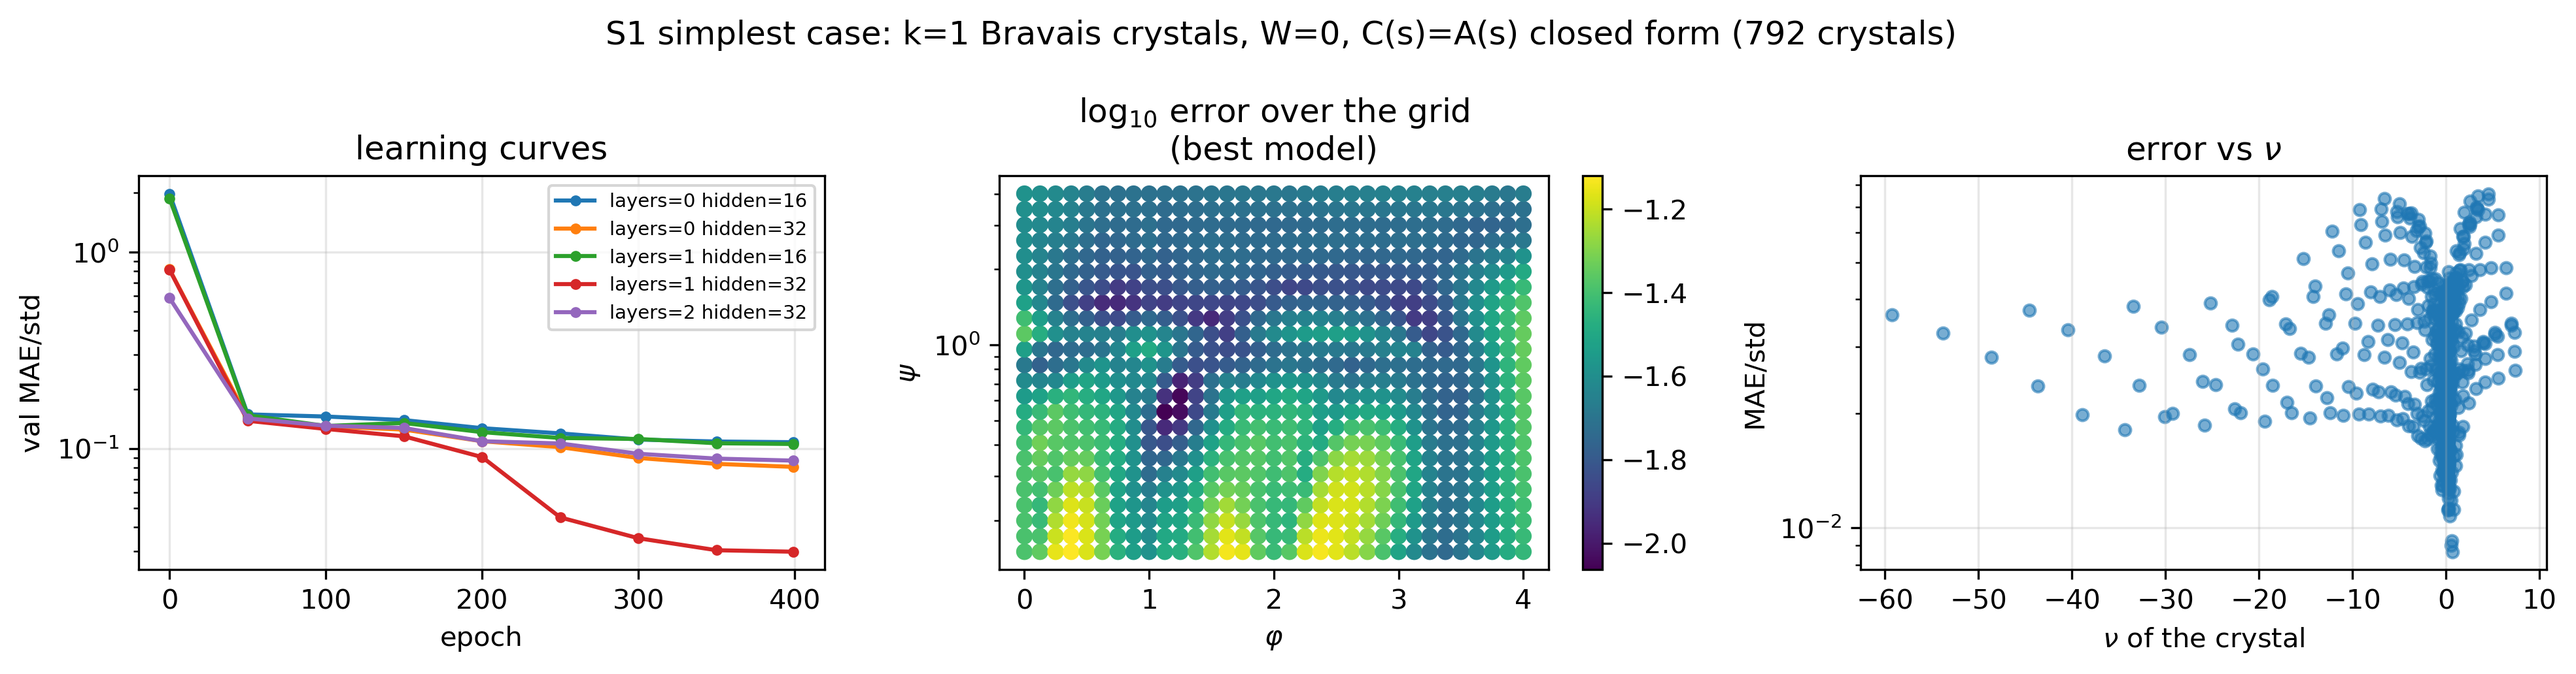
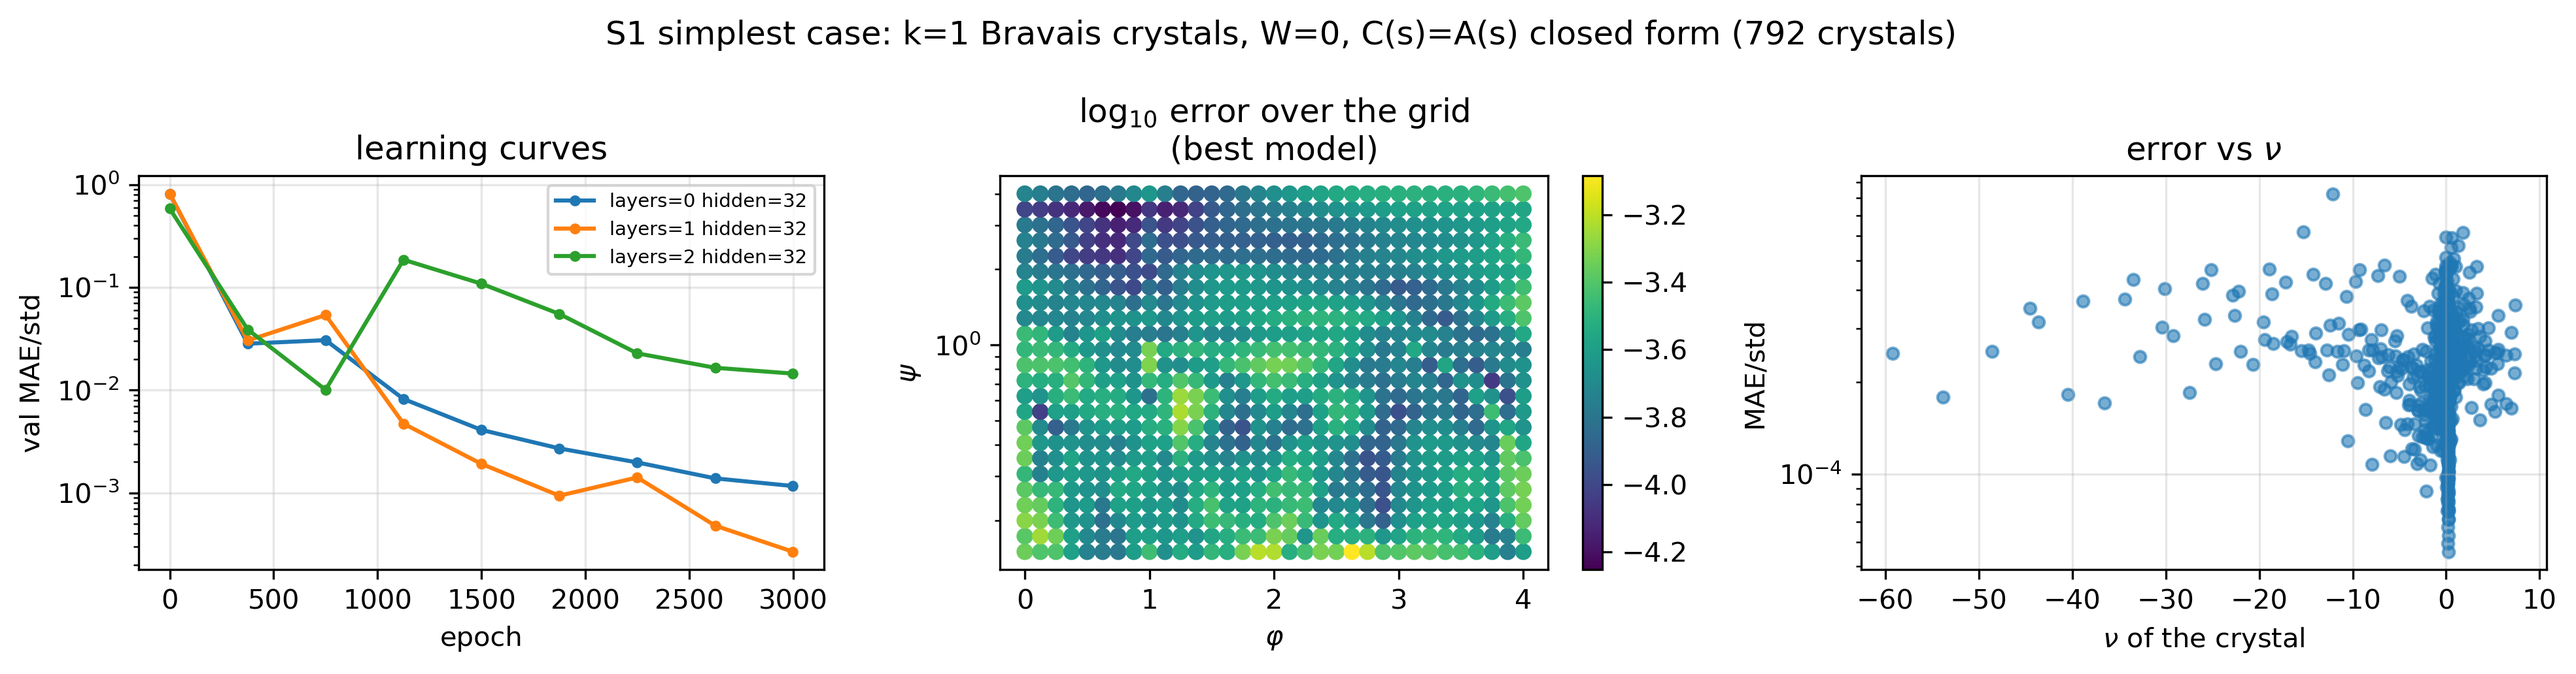
S1 simplest case PASSES: 0 layers, no message passing, learns C(s)=A(s) to 0.1%
The user's test, run to convergence. At k=1 on a perfect Bravais lattice W=0 (max|W| = 2.8e-12), so
C(s) = A(s) = sum_e q_e q_e^T/(16 l_e^2) is a CLOSED FORM in the triangle's own three edges -- no
neighbour enters. A model that cannot pass a message should already be exact, which isolates the
head and the features from the graph machinery.

  layers hidden params   400ep    3000ep
    0      32    4902   0.0793   0.00107   <- NO message passing
    1      32   11270   0.0273   0.00025
    2      32   17638   0.0859   0.01404

  So the head, the Q-basis and the angle features are together sufficient to represent AND LEARN a
  purely local target. That is S1's precondition and it had not been demonstrated before.

TWO THINGS THE NUMBERS SAY BEYOND "IT WORKS"
  - DEPTH HURTS on a local target: 2 layers is 13x worse than 0, with a large instability spike near
    epoch 1000. Message passing adds input the target does not depend on, plus optimisation
    difficulty. Depth should be justified by the target's non-locality, not adopted by default.
  - IT WAS UNDERTRAINED, exactly as the user said: 400 -> 3000 epochs improved the shallow models by
    30-100x, and both curves are STILL falling, so 0.00025 is an upper bound rather than a floor.

WHAT IT COST TO GET HERE, recorded because the pattern repeated: the first run gave 0.59-0.66 for
EVERY model size and got WORSE with depth -- the signature of an unfittable task, not of a capacity
[…]

diff --git a/Phase 5/verifications/m2_s1_crystals.py b/Phase 5/verifications/m2_s1_crystals.py
@@ -211,8 +211,8 @@ def main():
 
     print('\n%-8s %8s %10s   %-12s %s' % ('layers', 'hidden', 'params', 'val MAE/std', 'note'))
     results = {}
-    for layers, hidden in ((0, 16), (0, 32), (1, 16), (1, 32), (2, 32)):
-        net, err, va, hist = run(recs, layers, hidden, epochs=400)
+    for layers, hidden in ((0, 32), (1, 32), (2, 32)):
+        net, err, va, hist = run(recs, layers, hidden, epochs=3000)
         n_par = sum(p.numel() for p in net.parameters())
         results[(layers, hidden)] = (err, va, hist)
         print('%-8d %8d %10d   %-12.5f %s'

diff --git a/Phase 5/results/m2_s1_crystals/M2_S1_CRYSTALS.md b/Phase 5/results/m2_s1_crystals/M2_S1_CRYSTALS.md
@@ -1,0 +1,103 @@
+# S1, simplest case — can a shallow GNN learn the k=1 Bravais crystals?
+
+**Answer: yes, to 0.1 % with NO message passing at all, and 0.025 % with one layer.**
+
+**What, and why this is the right first test** (the user's framing). At `k = 1` on a perfect Bravais
+lattice `W = 0` — measured, `max|W| = 2.8e-12` — so
+
+```
+    C(s) = A(s) = Σ_e  q_e q_eᵀ / (16 ℓ_e²)
+```
+
+is a **closed form in that triangle's own three edges**. No neighbour enters. A model that cannot
+pass a single message should therefore already be exact, which isolates the **head and the features**
+from the graph machinery entirely. If it fails here, nothing more complicated is worth running.
+
+And **if `k` varies it is no longer a lattice** — a `k`-field breaks the translational symmetry — so
+the crystal case is `k = 1` and only `k = 1`.
+
+**Producer.** `Phase 5/verifications/m2_s1_crystals.py` → `crystals.png`, `crystals.npz`.
+Threads pinned to 1, float64, seed 0.
+
+---
+
+## 1. Result
+
+| layers | hidden | params | 400 epochs | **3000 epochs** |
+|---|---|---|---|---|
+| **0 — no message passing** | 32 | 4 902 | 0.0793 | **0.00107** |
+| 1 | 32 | 11 270 | 0.0273 | **0.00025** |
+| 2 | 32 | 17 638 | 0.0859 | 0.01404 |
+
+(validation MAE / label std, 792 crystals, 20 % held out)
+
+**The 0-layer model is the point.** It has no mechanism to see a neighbour, and it reaches 0.1 %.
+So the head, the `Q`-basis and the angle features are together sufficient to represent and *learn* a
+purely local target — the S1 precondition, which had not previously been demonstrated.
+
+**Depth HURTS on a local target.** Two layers is 13× worse than zero, and its learning curve shows a
+large instability spike near epoch 1000 before a slow recovery. Message passing adds input the target
+does not depend on, plus optimisation difficulty. Depth should be justified by the target's
+non-locality, not adopted by default.
+
+**Not converged even at 3000.** Both shallow curves are still descending, so 0.00025 is an upper
+bound on what this configuration reaches, not a floor.
+
+## 2. How many samples this really is — 792, not 3.9 million
+
+Every triangle of a Bravais crystal is equivalent by translation, and the two triangles of the
+primitive cell are inversion-related while `C` is even under inversion. So a 96-triangle crystal
+carries **exactly one distinct `C(s)`** — verified: 4 920 triangles over 50 crystals gave 50 distinct
+values, 1.00 per crystal.
+
+*(I had claimed 4 920 samples. That was wrong, and the correction is the user's.)*
+
+Resolution therefore has to come from the **(φ, ψ) grid**, not from bigger cells — hence 33 × 24 and
+a deliberately small model.
+
+## 3. The parametrisation, measured rather than assumed
+
+`a₁ = (1,0)`, `a₂ = (φ/2, ψ√3/2)`, bonded along `a₁`, `a₂` and **one** diagonal.
+
+- **φ is NOT periodic at fixed diagonal.** ν runs monotonically 0 → +1/3 → 0 → −0.579 → −1.381 over
+  φ ∈ [0,4]. An earlier period-2 claim of mine came from the **Delaunay** generator, which always
+  takes the *shorter* diagonal and so silently re-folds φ into [0,1].
+- **The diagonal flag is redundant with φ:** `(φ, a₁+a₂)` = `(φ+2, a₂−a₁)` to **0.00e+00** at every φ
+  tested. They are one family shifted by 2, so one diagonal with φ swept wide covers both.
+- **ψ ∈ (0.15, 4] is valid throughout** (A-17 clean), ν from +16.7 at ψ=0.15 to +0.25 at ψ=4, with
+  almost all the variation below ψ ≈ 1 — hence logarithmic sampling.
+
+## 4. What this experiment actually caught — a second unlearnable-scale bug
+
+The first run gave 0.59–0.66 for **every** model size and got **worse** with depth. That is the
+signature of a task that cannot be fit, not of a capacity shortfall — 792 samples against 17 k
+parameters should *over*fit.
+
+Cause: `build()` stored `out['per_triangle']` directly, but that field is **always in INTERNAL
+units** — `physical_units=True` rescales only `elastic_tensor`/`young`. The target therefore sat in a
+different unit system from the prediction, off by a **per-crystal factor of 18–220**, which no
+scale-invariant model can absorb.
+
+This is the **same class** as the morning's `Q`-normalisation bug, twelve hours apart: *the model was
+asked for an output determined by a per-sample factor its inputs cannot see.* Both passed SPD,
+equivariance, intensivity and expressiveness — those check the **form** of the head, not whether the
+target is **reachable**. Both presented as "the model fails to learn".
+
+**The guard that now exists:** `train_v2.oracle_check` pushes the analytic answer through the exact
+pipeline before the first gradient step and **raises** unless it reproduces the stored target to
+machine precision. Negative-tested — reintroduce either bug and it fires; the healthy pipeline passes
+at 5.9e-16 median.
+
+## 5. Limitations
+
+- **W = 0 by construction, so this says nothing about the non-affine response.** It validates the
+  head, the basis and the features on a local target; the whole difficulty of the real problem —
+  learning `W` — is absent here by design.
+- **Not converged**; the shallow curves were still falling at 3000 epochs.
+- **One seed per configuration.** The spread across configs (0.00025 … 0.014) is large enough that
+  some of it is optimisation noise, and that is not separated here.
+- **The residual error is not uniform** — it concentrates in the large-|ν| tail and at low ψ, i.e.
+  the extreme-anisotropy corner. Whether that is a real representational limit or just the hardest
+  part of the fit is untested.
+- ν reaches −59 on this grid, far outside anything the design work has used; those crystals are
+  legitimate but extreme, and they dominate the error statistics.

diff --git a/documentation/VERIFICATION_CAMPAIGN.md b/documentation/VERIFICATION_CAMPAIGN.md
@@ -121,6 +121,7 @@ truncation, ill-conditioning amplification — without new evidence.
 | `Phase 5/verifications/supercell_invariance.py` | Is `C_eff` really INTENSIVE across supercells? — the premise under "train small, deploy large" and under the label-free supercell gate | `results/supercell_invariance/SUPERCELL_INVARIANCE.md` — **yes, to 5e-16 … 7e-13** on four chains including the sharp anisotropic one; independently confirms that v1's `sum`-pooling branch is unphysical |
 | `Phase 5/verifications/m2_locality.py` | How LOCAL is the elastic response? — can a finite-hop GNN capture `W` at all (§3.1c's biggest architectural risk), and how much signal does a bulk-only label discard? | `results/m2_locality/M2_LOCALITY.md` — **intrinsic screening is 2–3 hops** (at noise by hop 2 under i.i.d. `k`; 4 even near-mechanism at `max|W|`=231) ⇒ **`n_layers` 4–5 is adequate, the risk is retired**. Per-triangle labels are worth ≈ **20× effective** signal (~23 independent local samples per 228-triangle network, vs 1 for a bulk label). Two things that are NOT screening lengths: a long tail under correlated `k` is INHERITED from the input, and an ordered motif OSCILLATES |
 | `Phase 5/verifications/test_m2_head.py` + `Phase 5/m2/train_v2.py` | Is the v2 head expressive, equivariant and SPD — and does it LEARN? | `Phase 5/results/m2_s1/M2_S1.md` — **parametrisation verified 7/7 BEFORE training** (expressive to 3.52e-16 at `max|W|` = 2.43; the plan’s earlier affine-only ansatz would fail this). Training: within-family **0.4613** vs leave-one-family-out **0.5343** MAE/std, gap +16 %; SPD violations 0 by construction. **But on a held-out family it does NOT beat the trivial "predict your own bulk" baseline (0.5144)**, and it is UNDERFIT — still improving at epoch 149. Not yet comparable to §1’s ν/E-against-sim criteria, so S1 is neither passed nor failed |
+| `Phase 5/verifications/m2_s1_crystals.py` | Can a SHALLOW GNN learn the k=1 Bravais crystals, where W=0 and C(s)=A(s) is a closed form in the triangle’s own three edges? | `Phase 5/results/m2_s1_crystals/M2_S1_CRYSTALS.md` — **yes: 0.00107 MAE/std with NO message passing (0 layers), 0.00025 with one.** Depth HURTS on a local target (2 layers 13× worse). 792 crystals = 792 samples, ONE distinct C(s) each. Also caught the second unlearnable-scale bug (target in internal units, per-crystal factor 18–220) |
 | *(see I.2 — dilution)* | What may M2 safely sample along the coordination axis? | `k_soft ≥ 1e-8`, full `f ∈ [0, 0.40]` usable; **extended 2026-08-25 to SMALL CELLS** (N=3…12, 6…24 triangles): 16/16 agree with the independent sim to four decimals, including sub-isostatic z = 3.3–3.7 |
 
 ## I.8 — DEAD: the legacy island (do NOT cite as evidence)
